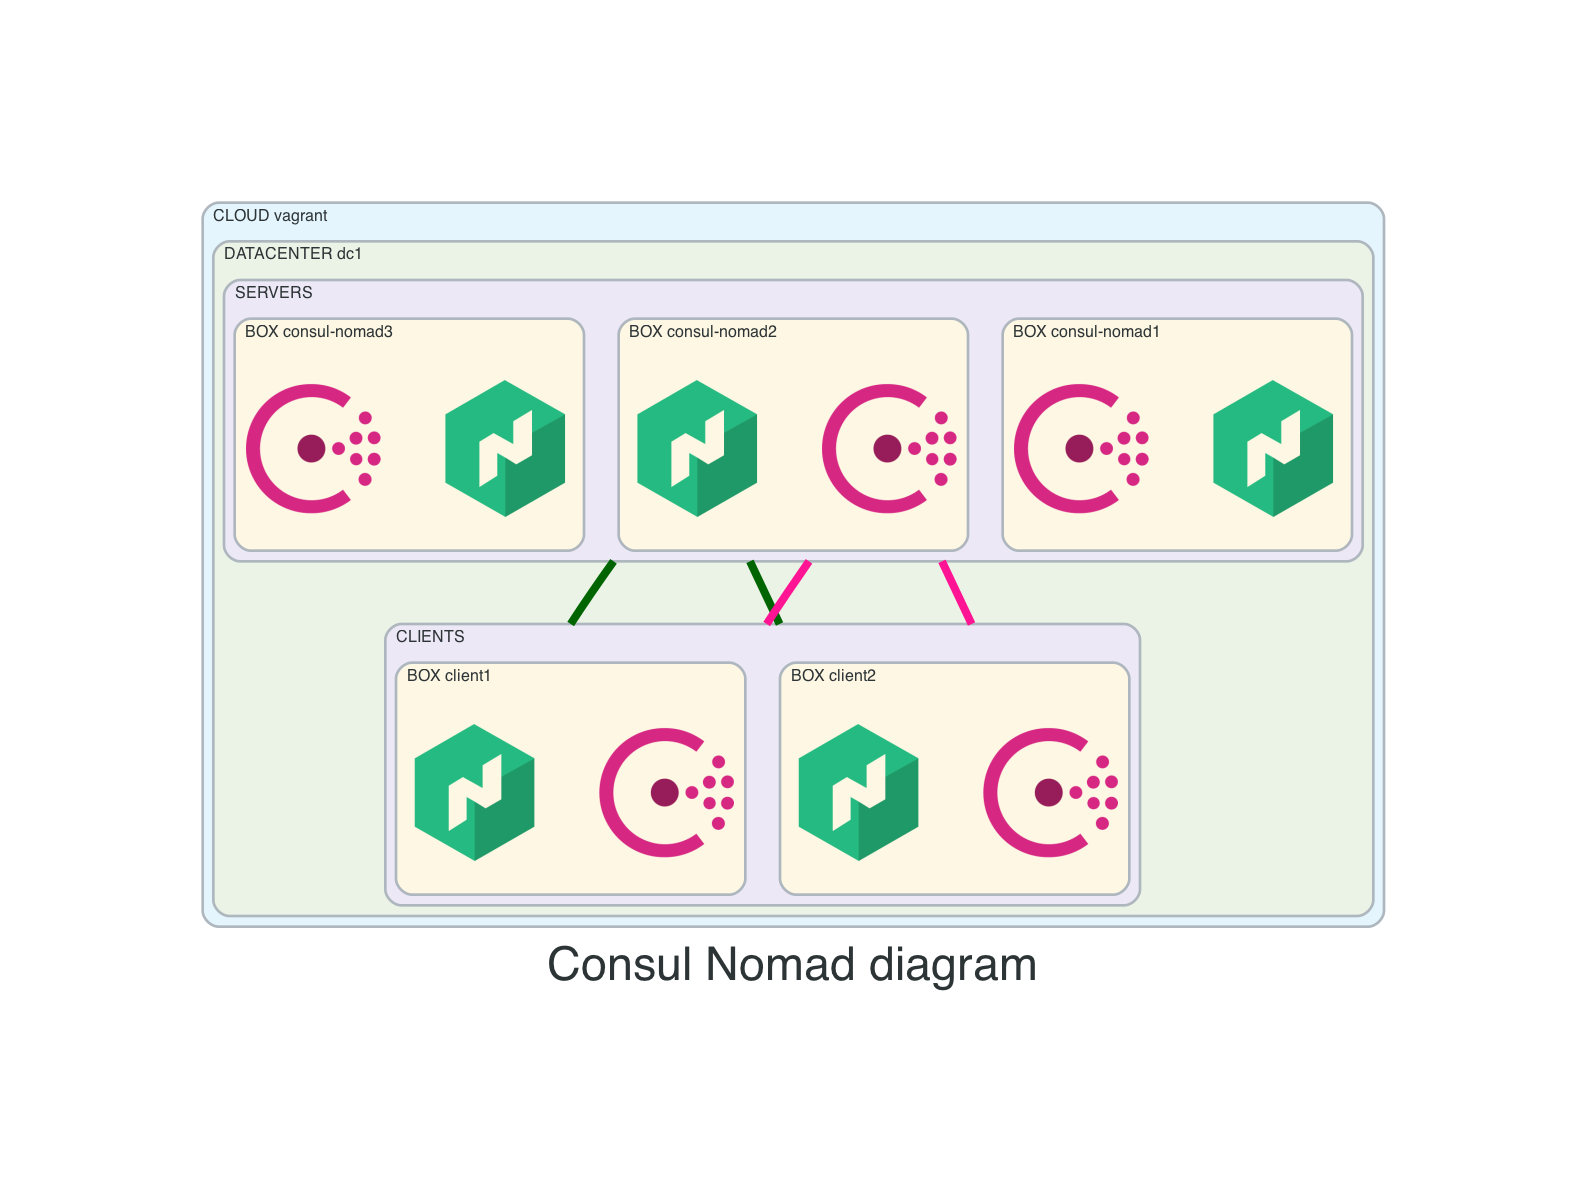
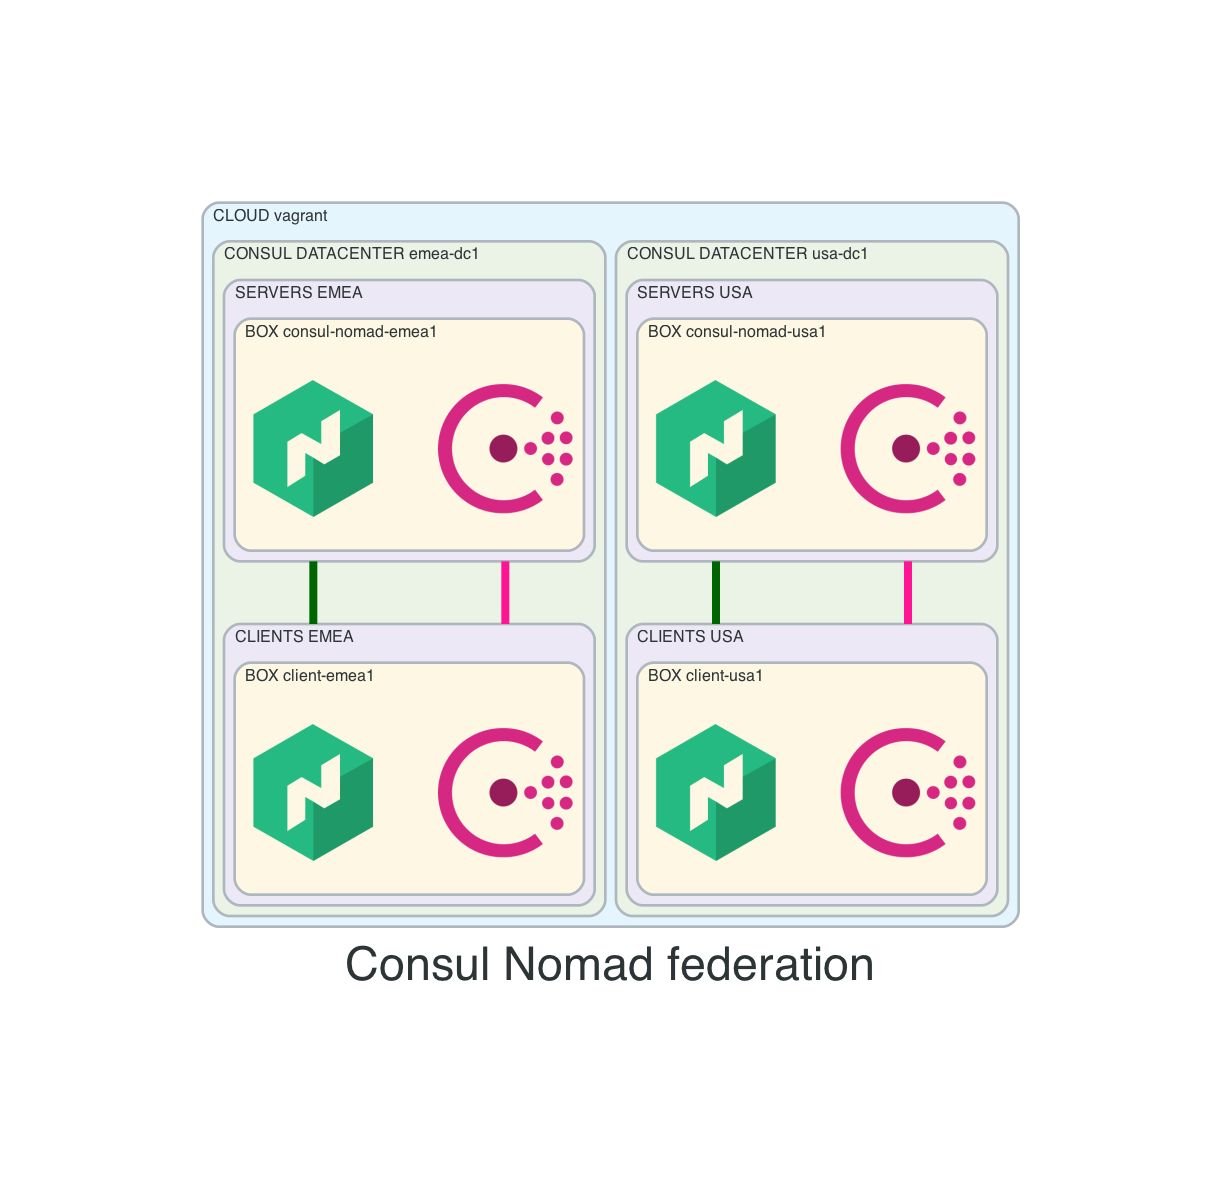
diagram

Changed region(s): [[0.1245, 0.1552, 0.8714, 0.8381], [0.3423, 0.2483, 0.4046, 0.3104], [0.3423, 0.4966, 0.3735, 0.5277]]

diff --git a/05-consul-nomad-federation/diagram/diagram.py b/05-consul-nomad-federation/diagram/diagram.py
@@ -7,6 +7,7 @@ from diagrams.onprem.network import Consul, Traefik
 from diagrams.onprem.compute import Nomad
 from diagrams.onprem.security import Vault
 
+
 outformat="png"
 
 graph_attr = {
@@ -19,27 +20,38 @@ graph_attr = {
     "fontsize": "35",
     }
 
-with Diagram("Consul Nomad diagram", filename="diagram", direction="TB",outformat=outformat, graph_attr=graph_attr):
+with Diagram("Consul Nomad federation", filename="diagram", direction="TB",outformat=outformat, graph_attr=graph_attr):
     with Cluster("CLOUD vagrant"):
-        with Cluster("DATACENTER dc1"):
-            with Cluster("SERVERS"):
-                with Cluster("BOX consul-nomad1"):
-                    nomad_global1 = Nomad("")
-                    consul_global1 = Consul("")
-                with Cluster("BOX consul-nomad2"):
-                    nomad_global2 = Nomad("")
-                    consul_global2 = Consul("")
-                with Cluster("BOX consul-nomad3"):
-                    nomad_global3 = Nomad("")
-                    consul_global3 = Consul("")
-            with Cluster("CLIENTS"):
-                with Cluster("BOX client1"):
-                    nomad_client1 = Nomad("")
-                    consul_client1 = Consul("")
-                with Cluster("BOX client2"):
-                    nomad_client2 = Nomad("")
-                    consul_client2 = Consul("")
+        with Cluster("CONSUL DATACENTER usa-dc1"):
+            with Cluster("SERVERS USA"):
+                with Cluster("BOX consul-nomad-usa1"):
+                    server_nomad_usa1 = Nomad("")
+                    server_consul_usa1 = Consul("")
+            with Cluster("CLIENTS USA"):
+                with Cluster("BOX client-usa1"):
+                    client_nomad_usa1 = Nomad("")
+                    client_consul_usa1 = Consul("")
+        with Cluster("CONSUL DATACENTER emea-dc1"):
+            with Cluster("SERVERS EMEA"):
+                with Cluster("BOX consul-nomad-emea1"):
+                    server_nomad_emea1 = Nomad("")
+                    server_consul_emea1 = Consul("")
+            with Cluster("CLIENTS EMEA"):
+                with Cluster("BOX client-emea1"):
+                    client_nomad_emea1 = Nomad("")
+                    client_consul_emea1 = Consul("")
+
         # LINKS
         # if stop of the line passes cluster (doesn't work) try swap values between ltail and lhead
-        nomad_global2 - Edge(penwidth = "6", color = "darkgreen", ltail = "cluster_SERVERS", lhead="cluster_CLIENTS", minlen="2") - [nomad_client1, nomad_client2]
-        consul_global2 - Edge(penwidth = "6", color = "deeppink", ltail = "cluster_SERVERS", lhead="cluster_CLIENTS", minlen="2") - [consul_client1, consul_client2]
+        # nomad_emea1 - Edge(penwidth = "6", color = "darkgreen", ltail = "cluster_SERVERS", lhead="cluster_CLIENTS", minlen="2") - [nomad_client1, nomad_client2]
+        # consul_global2 - Edge(penwidth = "6", color = "deeppink", ltail = "cluster_SERVERS", lhead="cluster_CLIENTS", minlen="2") - [consul_client1, consul_client2]
+        server_nomad_emea1 - Edge(penwidth = "6", color = "darkgreen", ltail = "cluster_SERVERS EMEA", lhead="cluster_CLIENTS EMEA", minlen="2") -  client_nomad_emea1
+        server_nomad_usa1 - Edge(penwidth = "6", color = "darkgreen", ltail = "cluster_SERVERS USA", lhead="cluster_CLIENTS USA", minlen="2") - client_nomad_usa1
+
+        server_consul_emea1 - Edge(penwidth = "6", color = "deeppink", ltail = "cluster_SERVERS EMEA", lhead="cluster_CLIENTS EMEA", minlen="2") -  client_consul_emea1
+        server_consul_usa1 - Edge(penwidth = "6", color = "deeppink", ltail = "cluster_SERVERS USA", lhead="cluster_CLIENTS USA", minlen="2") - client_consul_usa1
+
+        # server_consul_emea1 - Edge(penwidth = "6", color = "deeppink", ltail = "cluster_SERVERS EMEA", lhead="cluster_SERVERS USA", minlen="2") - server_consul_usa1
+        # server_nomad_emea1 - Edge(penwidth = "6", color = "darkgreen", ltail = "cluster_BOX consul-nomad-emea1", lhead="cluster_SERVERS USA", minlen="1") - server_consul_usa1
+
+        # server_consul_emea1 - server_nomad_usa1
